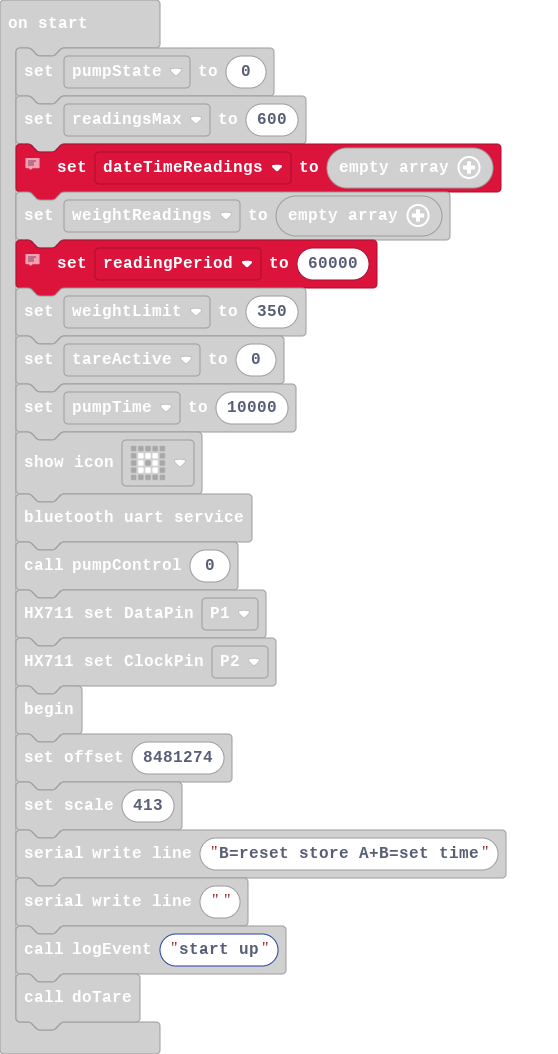
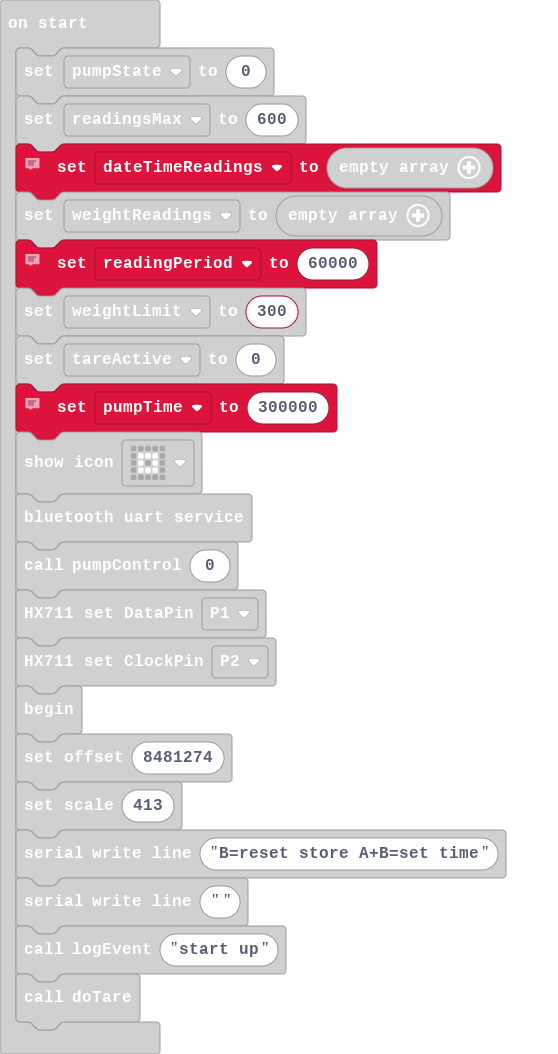
Update pxt.json, main.blocks, main.ts

Changed region(s): [[0.0, 0.3643, 0.6093, 0.425]]

diff --git a/main.ts b/main.ts
@@ -103,9 +103,11 @@ dateTimeReadings = []
 weightReadings = []
 // time between readings (ms)
 let readingPeriod = 60000
-let weightLimit = 350
+let weightLimit = 300
 tareActive = 0
-let pumpTime = 10000
+// 5 minutes pump on
+// 
+let pumpTime = 300000
 basic.showIcon(IconNames.SmallSquare)
 bluetooth.startUartService()
 pumpControl(0)
